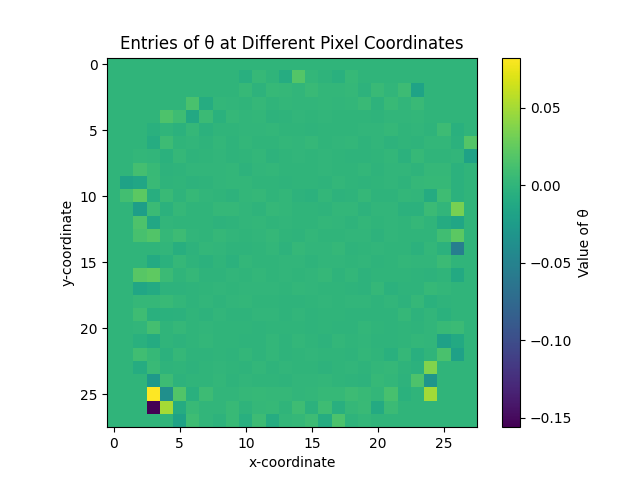
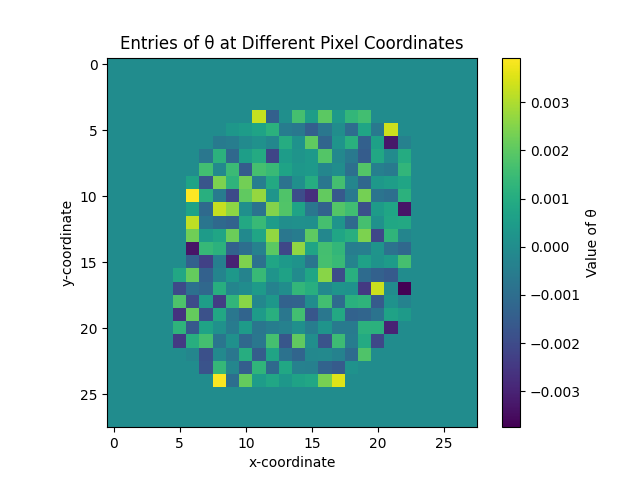
sum's messing w me bro istg

diff --git a/project2.py b/project2.py
@@ -29,43 +29,52 @@ y_test = y_test[:5000]
 # pixel intensity: black = 0, 255 = white
 image_quantity = len(x_train) # truncated to 5000 out of 60000
 pixel_dimensions = (28, 28) # 28 x 28 pixels
-nonzero_intensities = []
+nonzero_intensities = np.zeros(pixel_dimensions)
+maximum_intensity = 600
 
 # REDO BRUH
 # correct approach: loop thru all 5k & increment 28 x 28 pixel entries for nonzero intensities;
 # only keep values ≥ 600 as features
-def calculate_feature(intensities, dimensions, image_number):
-    for i in range(image_number): # 600 <= x <= 5000
-        for j in range(dimensions[0]):
-            for k in range(dimensions[1]):
-                if x_train[i][j][k] != 0 and (j, k) not in intensities:
-                    intensities.append((j, k))
-    feature_quantity = len(intensities) # number of features used for classification
-    return feature_quantity
+def calculate_feature(intensities, dimensions, image_number, max_intensity):
+    for i in range(image_number): # 5000
+        for j in range(dimensions[0]): # 28
+            for k in range(dimensions[1]): # 28
+                if x_train[i][j][k] != 0:
+                    intensities[j][k] += 1
 
-feature_quantity = calculate_feature(nonzero_intensities, pixel_dimensions, 1000)
+    feature_quantity = 0
+    feature_functions = []
+    for i in range(dimensions[0]): # 28
+        for j in range(dimensions[1]): # 28
+            if intensities[i][j] >= max_intensity:
+                feature_quantity += 1
+                feature_functions.append((i, j))
+    return feature_quantity, feature_functions
+
+feature_quantity, feature_function = calculate_feature(nonzero_intensities, pixel_dimensions, image_quantity, maximum_intensity)
 # print(feature_quantity) # should not exceed 28 * 28 = 784
+# print(len(feature_function))
 
 
 # 3 TODO: Construct matrix A & vector y, solve the least square, & plot values of entries of theta
 # DONE
-def construct_A_y(x_data, y_data, features, N, M):
+def construct_A_y(x_data, y_data, feature_functions, N, M):
     # A -> N x M = image_quantity x feature_quantity
     A = np.zeros((N, M))
-    feature_functions = [lambda x, pixel = pixel: x[pixel[0]][pixel[1]] for pixel in features]
+
     for i in range(N):
-        for j in range(M):
-            A[i, j] = feature_functions[j](x_data[i])
+        for j, (k, l) in enumerate(feature_functions):
+            A[i, j] = x_data[i][k][l]
     return A, y_data
 
-A, y = construct_A_y(x_train, y_train, nonzero_intensities, image_quantity, feature_quantity)
+A, y = construct_A_y(x_train, y_train, feature_function, image_quantity, feature_quantity)
 
 # solve least squares
 theta = np.linalg.lstsq(A, y, rcond=None)[0]
 
 # map theta to 28 x 28 grid (will be sparse b/c # of features < # of pixels)
 theta_plot = np.zeros(pixel_dimensions)
-for i, (j, k) in enumerate(nonzero_intensities):
+for i, (j, k) in enumerate(feature_function):
     theta_plot[j, k] = theta[i]
 plt.imshow(theta_plot)
 plt.colorbar(label="Value of θ")
@@ -79,7 +88,7 @@ plt.savefig('theta.png')
 # 4 TODO: Load images & calculate error rate, false positive rate, & false negative rate of classifier
 # IN PROGRESS (ALMOST DONE)
 # reconstruct A & y (only theta remains unchanged for testing)
-A1, y1 = construct_A_y(x_test, y_test, nonzero_intensities, image_quantity, feature_quantity)
+A1, y1 = construct_A_y(x_test, y_test, feature_function, image_quantity, feature_quantity)
 
 # calculate f_tilde(x) i.e. least squares classifier
 def calculate_classifier(A_matrix, theta_vector):
@@ -140,14 +149,15 @@ y_train100 = y_train[:100]
 y_test100 = y_test[:100]
 
 image_quantity100 = len(x_train100)
-nonzero_intensities100 = []
-feature_quantity100 = calculate_feature(nonzero_intensities100, pixel_dimensions, 100) # caps @ 100
+nonzero_intensities100 = np.zeros(pixel_dimensions)
+maximum_intensity100 = 12
+feature_quantity100, feature_function100 = calculate_feature(nonzero_intensities100, pixel_dimensions, image_quantity100, maximum_intensity100) # caps @ 100
 
-A100, y100 = construct_A_y(x_train100, y_train100, nonzero_intensities100, image_quantity100, feature_quantity100)
+A100, y100 = construct_A_y(x_train100, y_train100, feature_function100, image_quantity100, feature_quantity100)
 theta100 = np.linalg.lstsq(A100, y100, rcond=None)[0]
 
 theta_plot100 = np.zeros(pixel_dimensions)
-for i, (j, k) in enumerate(nonzero_intensities100):
+for i, (j, k) in enumerate(feature_function100):
     theta_plot100[j, k] = theta100[i]
 plt.figure() # avoid overriding previous figure
 plt.imshow(theta_plot100)
@@ -157,7 +167,7 @@ plt.xlabel("x-coordinate")
 plt.ylabel("y-coordinate")
 plt.savefig('theta100.png')
 
-A1001, y1001 = construct_A_y(x_test100, y_test100, nonzero_intensities100, image_quantity100, feature_quantity100)
+A1001, y1001 = construct_A_y(x_test100, y_test100, feature_function100, image_quantity100, feature_quantity100)
 least_squares_classifier100 = calculate_classifier(A1001, theta100)
 
 error_list100 = calculate_error(least_squares_classifier100, y1001, image_quantity100)
